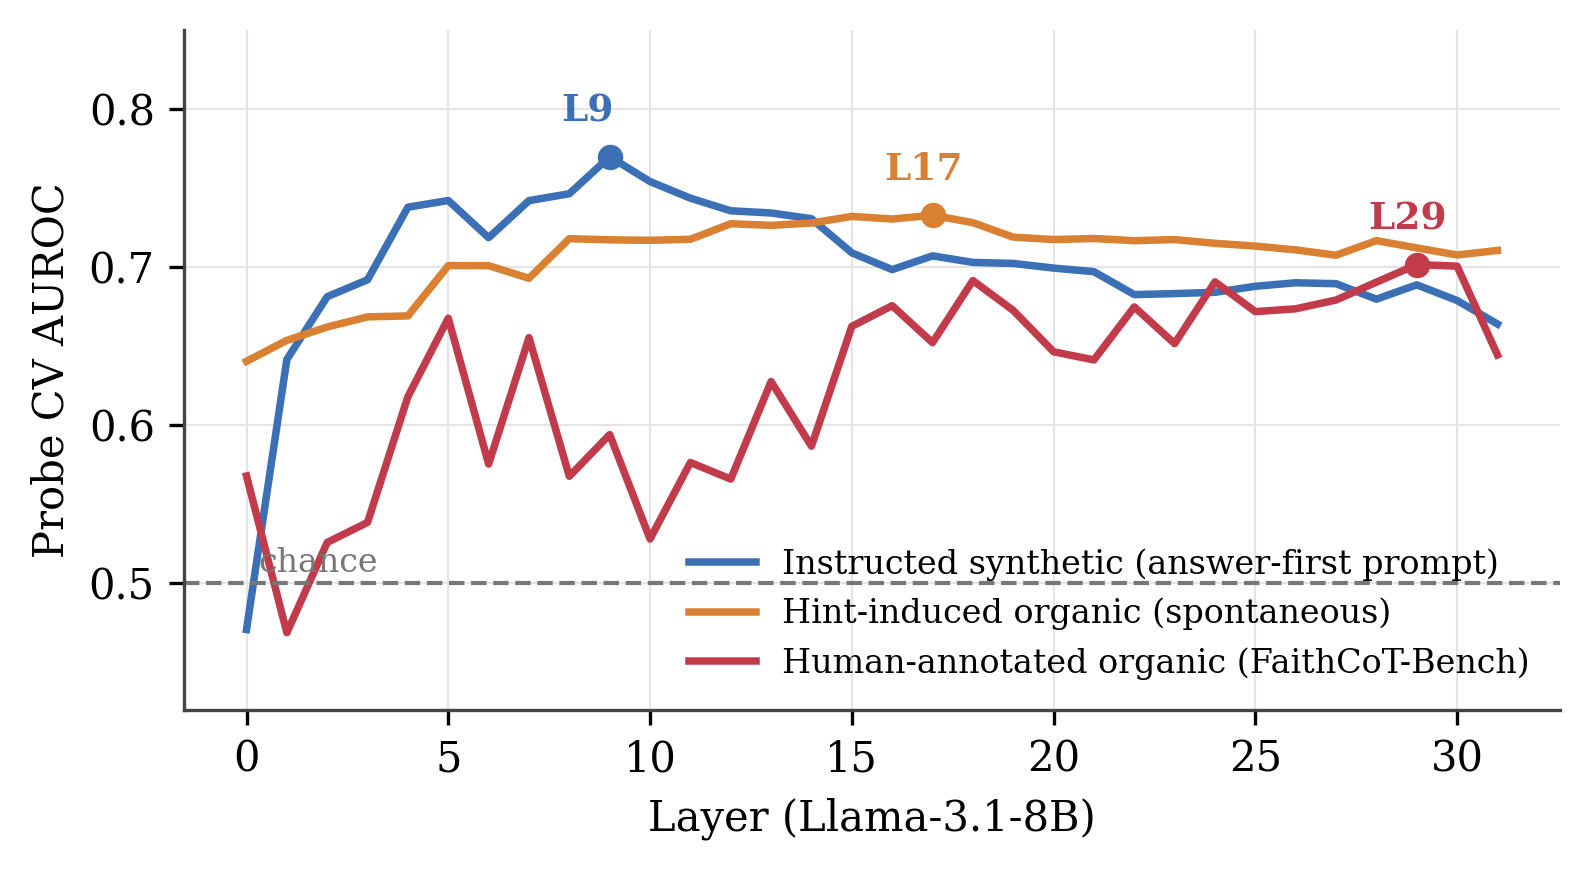
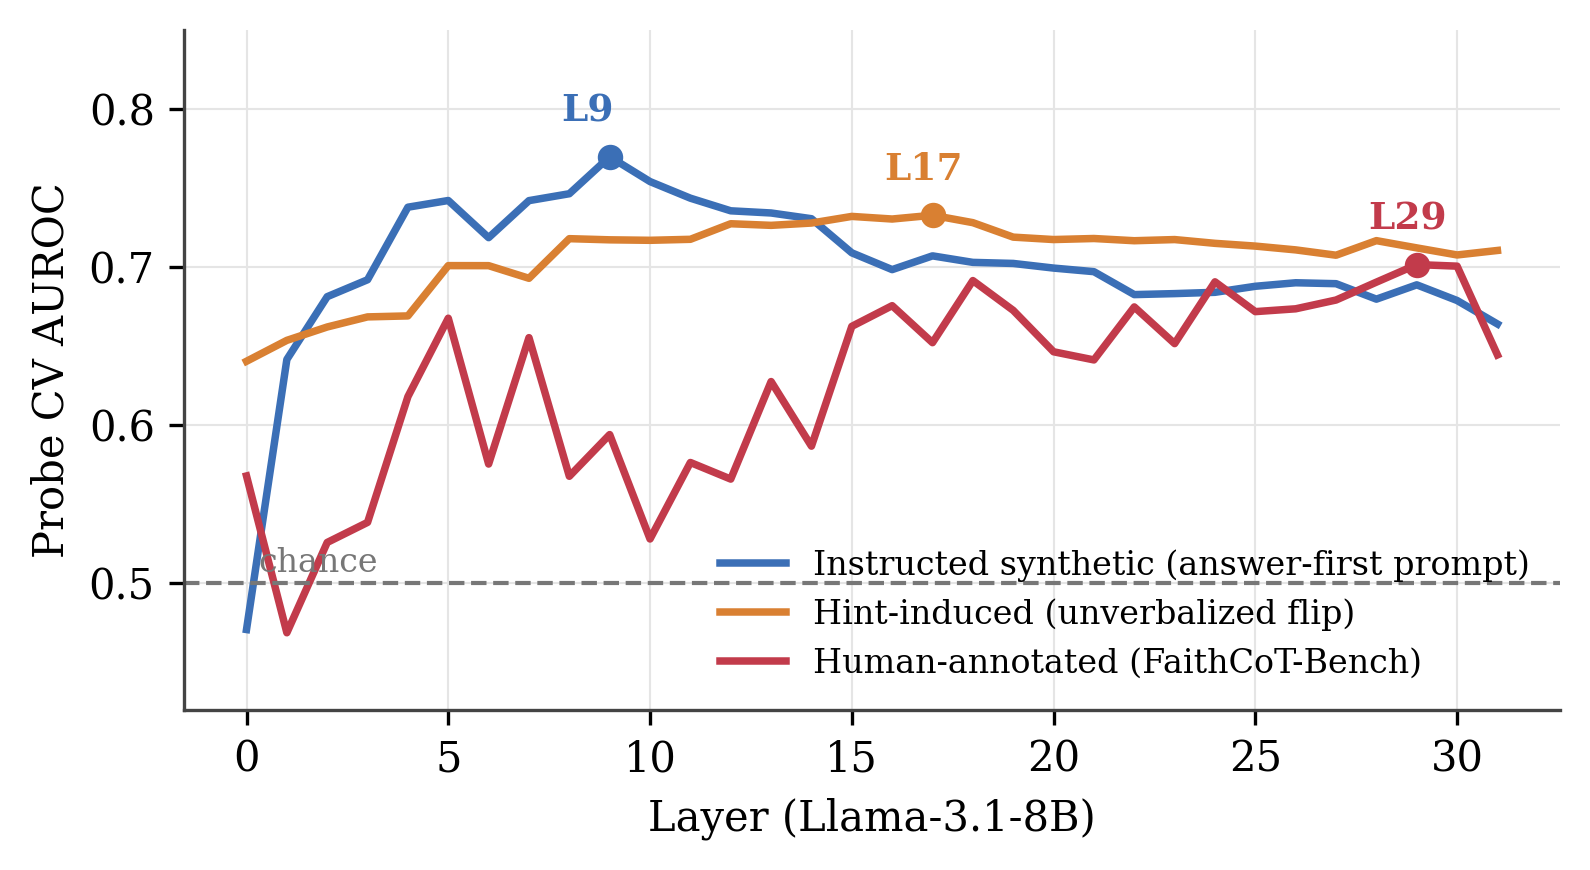
Second-review calibration pass: terminology, scoping, cluster bootstrap, descriptive depth claim
Per the updated external review (2.5 -> 3/5), applied all recommended wording edits:
- "silent rationalization" -> "unverbalized answer flips"; zero remaining "organic post-hoc"/
  "causal labels"; inversion header -> "intervention-defined, sample-level hint-dependence labels";
  released-set description -> "255 unverbalized hint-flip traces".
- Abstract/intro/discussion: "is at chance" -> "no reliable above-chance discrimination";
  proxy claim Llama-scoped ("instructed rationalizations do not transfer... whereas hint-induced
  traces do"); "information exists inside the model" -> "linearly decodable from Llama hidden
  states"; "may be necessary" -> "can provide complementary signal"; depth gradient Llama-scoped
  in abstract.
- Depth gradient marked DESCRIPTIVE in 7.3 + Fig 4 caption (Qwen peaks nearly coincide; stability
  caveat); Fig 4 legend regenerated ("Hint-induced (unverbalized flip)").
- Nested estimates now primary in 6 (0.67+/-0.08 leads; disclosed 0.70 parenthetical).
- NEW cluster bootstrap over 8 model-domain cells (results/cluster_bootstrap.json): correctness
  [0.616,0.753], inverted-soft [0.575,0.728] -- both exclude chance; HLE-Bio heterogeneity
  disclosed in Limitations. RoBERTa-baseline-strength caveat added.
Launched (Aquaman): question-only hint->annotated transfer control -- the reviewer's top-priority
experiment; if ~chance while CoT transfers at 0.616, the difficulty-carrier alternative dies.

Changed region(s): [[0.4314, 0.6207, 0.9553, 0.7759]]

diff --git a/paper/main.tex b/paper/main.tex
@@ -24,7 +24,7 @@
 \maketitle
 
 \begin{abstract}
-Chain-of-thought (CoT) explanations support oversight only if they are \emph{faithful}: the stated reasoning must actually produce the answer. We audit how far \emph{black-box} (behavioral) detection of unfaithful CoT can go, evaluating four families of behavioral signals on FaithCoT-Bench against its human annotations. Detection is dominated by an accuracy confound: answer correctness alone is the strongest ``unfaithfulness'' signal (AUROC 0.696), and the standard step-removal faithfulness metric \emph{anti-correlates} with human judgments. Controlling for correctness isolates a frontier where every black-box signal we test is at chance: \emph{post-hoc rationalization on correct answers}. Linear probes over hidden states detect this regime where behavior cannot, with model-dependent strength. To study the regime at scale, we compare instructed answer-first prompting (7 models, 3 families; grouped, nested held-out AUROC 0.63--0.79) with hint-induced silent rationalization, in which an unverbalized hint demonstrably changes the sampled answer. In Llama-3.1-8B, probes trained on the hint-induced variant transfer to human-annotated rationalization (layer-mean AUROC 0.616, permutation $p{=}0.017$; instructed: 0.431; no such transfer detected in Qwen-2.5-7B), and the three variants peak at increasing network depths. Instructed rationalization is not a proxy for the organic phenomenon, and faithfulness evaluation should not rely on it.
+Chain-of-thought (CoT) explanations support oversight only if they are \emph{faithful}: the stated reasoning must actually produce the answer. We audit how far \emph{black-box} (behavioral) detection of unfaithful CoT can go, evaluating four families of behavioral signals on FaithCoT-Bench against its human annotations. Detection is dominated by an accuracy confound: answer correctness alone is the strongest ``unfaithfulness'' signal (AUROC 0.696), and the standard step-removal faithfulness metric \emph{anti-correlates} with human judgments. Controlling for correctness isolates a frontier where none of the black-box signals we test shows reliable above-chance discrimination: \emph{post-hoc rationalization on correct answers}. Linear probes over hidden states detect this regime where behavior cannot, with model-dependent strength. To study the regime at scale, we compare instructed answer-first prompting (7 models, 3 families; grouped, nested held-out AUROC 0.63--0.79) with hint-induced, unverbalized answer flips, in which a hint the model never mentions demonstrably changes the sampled answer. In Llama-3.1-8B, probes trained on the hint-induced variant transfer to human-annotated rationalization (layer-mean AUROC 0.616, permutation $p{=}0.017$; instructed: 0.431; no such transfer detected in Qwen-2.5-7B), and in Llama the three variants peak at increasing network depths. In Llama, instructed rationalizations do not transfer to the annotated regime under linear probing, whereas hint-induced traces do---cautioning against treating instructed constructions as interchangeable with naturally occurring unfaithfulness.
 \end{abstract}
 
 \section{Introduction}
@@ -63,7 +63,7 @@ If the population of a city increases by 5\% annually, what will be the populati
 
 \paragraph{A localized frontier (\S\ref{sec:frontier}).} Controlling for the confound (restricting to correct-answer traces and separating faithful reasoning from post-hoc rationalization) collapses every black-box signal to chance. We argue this regime is the hard core of the problem.
 
-\paragraph{The internals contrast (\S\ref{sec:internals}).} On the same regime, simple linear probes over hidden states succeed where behavior fails, in some models: Llama-3.1-8B reaches held-out AUROC 0.70 with cross-domain generalization and weak causal support from activation steering; Qwen-2.5-7B is not significant. The distinction is behaviorally inaccessible yet (unevenly) linearly decodable.
+\paragraph{The internals contrast (\S\ref{sec:internals}).} On the same regime, simple linear probes over hidden states succeed where behavior fails, in some models: Llama-3.1-8B reaches held-out AUROC 0.70 with cross-domain generalization and weak causal support from activation steering; Qwen-2.5-7B is not significant. The distinction is not detected by our behavioral baselines but is linearly decodable in Llama hidden states.
 
 \paragraph{Constructed vs.\ organic unfaithfulness (\S\ref{sec:construction}).} Annotated post-hoc traces are scarce, so the field constructs them, typically by instructing a model to justify a given answer. We compare two constructions at scale: \emph{instructed} answer-first prompting across 7 open models (2024--2026), and \emph{hint-induced} rationalization \citep{turpin2023language}, where a model that failed a problem flips to the hinted gold answer without ever mentioning the hint, yielding organic traces whose sampled answers are demonstrably hint-dependent. Both are strongly detectable internally; but a three-way transfer analysis against the human-annotated regime shows that, in Llama, only the hint-induced variant shares its representation. Instructed rationalization is an artifact, and that is a caution for common evaluation practice.
 
@@ -148,7 +148,7 @@ Premise-DAG structure & 0.490 & $\ni$ 0.5 \\
 \bottomrule
 \end{tabular}%
 }
-\caption{The frontier: the human unfaithfulness label restricted to \emph{correct-answer} traces (the ft1/ft2 regime; $n{=}270$). Every black-box signal is at chance; the conclusion is unchanged if the four-way \texttt{faithful\_type} annotation (ft1 vs.\ ft2) is used as the target instead (0.48--0.54, all CIs $\ni$ 0.5).}
+\caption{The frontier: the human unfaithfulness label restricted to \emph{correct-answer} traces (the ft1/ft2 regime; $n{=}270$). No tested black-box signal shows statistically reliable above-chance performance (intervals do not exclude modest effects); the conclusion is unchanged if the four-way \texttt{faithful\_type} annotation (ft1 vs.\ ft2) is used as the target instead (0.48--0.54, all CIs $\ni$ 0.5).}
 \label{tab:frontier}
 \end{table}
 
@@ -178,7 +178,7 @@ MLP vs.\ linear & no gain & --- \\
 \label{tab:whitebox}
 \end{table}
 
-\paragraph{Results.} Table~\ref{tab:whitebox} (probe target: the four-way annotation, ft1 vs.\ ft2; 91\% aligned with the binary label used in Table~\ref{tab:frontier}). In Llama-3.1-8B the probe separates ft1 from ft2 at held-out AUROC 0.70 (0.67 $\pm$ 0.08 when the layer is selected by nested inner CV on training folds only), generalizes across domains, and is approximately linear (an MLP adds nothing). In Qwen-2.5-7B it is weak and not significant---``not detected,'' not ``absent.'' An exploratory steering check points the right way: steering activations along the probe's post-hoc direction flips answers 2--3$\times$ more than a norm-matched random control direction (0.22 vs.\ 0.08 at $+6\sigma$; a single control direction; Appendix~\ref{app:steering}). We present this strictly as an exploratory sanity check, not as a contribution---concurrent work steers answer directions with far larger effects \citep{cox2026decoding}---and note that steering-vector effects are known to be high-variance and that random-direction controls rule out generic perturbation, not any-structured-direction, effects \citep{tan2024analysing}.
+\paragraph{Results.} Table~\ref{tab:whitebox} (probe target: the four-way annotation, ft1 vs.\ ft2; 91\% aligned with the binary label used in Table~\ref{tab:frontier}). In Llama-3.1-8B the probe separates ft1 from ft2 at held-out AUROC 0.67 $\pm$ 0.08 under nested layer selection (0.70 at the disclosed full-data layer), generalizes across domains, and is approximately linear (an MLP adds nothing). In Qwen-2.5-7B it is weak and not significant---``not detected,'' not ``absent.'' An exploratory steering check points the right way: steering activations along the probe's post-hoc direction flips answers 2--3$\times$ more than a norm-matched random control direction (0.22 vs.\ 0.08 at $+6\sigma$; a single control direction; Appendix~\ref{app:steering}). We present this strictly as an exploratory sanity check, not as a contribution---concurrent work steers answer directions with far larger effects \citep{cox2026decoding}---and note that steering-vector effects are known to be high-variance and that random-direction controls rule out generic perturbation, not any-structured-direction, effects \citep{tan2024analysing}.
 
 \section{Part IV: Constructed vs.\ Organic Unfaithfulness}
 \label{sec:construction}
@@ -225,7 +225,7 @@ DeepSeek-R1-0528-8B & 81 & 0.558$^{\ddagger}$ & 0.627 & .025 & 0.473 \\
 
 Following the biased-context paradigm \citep{turpin2023language,chen2025reasoning}, we first ask each problem clean (correct $\Rightarrow$ \emph{genuine}, capped). For problems the model got \emph{wrong}, we re-ask with a sycophancy hint toward the gold answer (``I think the answer is $a^*$\ldots''). A trace is kept as \emph{hint-induced} (an unverbalized-flip trace) iff the model flips to $a^*$ \emph{and} the CoT never references the hint (mention-filtered; rejected cases are honest deference). The label is \textbf{counterfactual at the sample level}: the sampled baseline answer was incorrect and the hinted answer matches the hint, satisfying the unfaithfulness criterion of \citet{chen2025reasoning}. It is not a problem-level inability claim: a single independent baseline resample solves 59\% of these problems, and only 25\% (Llama) / 29\% (Qwen) fail two consecutive resamples, so hint-dependence is a property of the sampled trace; Appendix~\ref{app:strict} repeats the key analyses on the strict subset of problems that fail repeated baseline resamples. We likewise distinguish the established claim (``the hint changed the answer, unverbalized'') from the stronger interpretation (``the CoT was generated answer-first''), which remains an inference; we use \emph{rationalization} as shorthand for the former. Probed contexts exclude the hint text, keeping conditions symmetric. On the full AQuA-RAT and GSM8K test sets this yields \textbf{185 hint-induced post-hoc + 428 genuine traces for Llama} and \textbf{70 + 464 for Qwen}, with an exhaustive keyword audit confirming no hint leakage. The construction costs no human annotation. A further caveat: unlike the instructed construction, whose pairs share problems, genuine and hint-induced traces here come from \emph{disjoint problem pools} (solved vs.\ failed at baseline), so within-testbed decodability may partly reflect problem difficulty or model confidence. The transfer analysis below is the difficulty-robust claim: in the annotated target regime both classes are correct-answer traces, so a difficulty probe should not transfer---yet transfer is what we observe.
 
-Both models are strongly decodable on this organic set (held-out 0.752 / 0.835, permutation $p{\leq}0.001$, 1{,}000 permutations). Input and text baselines are substantial here and we report them prominently: surface features reach 0.626/0.703, a learned text baseline 0.611/0.751, and question-only probes 0.646/0.664---so within-testbed decodability, especially for Qwen, is partly difficulty- and text-explainable; the CoT probes exceed the strongest such baseline by roughly $+0.08$--$0.11$. Most strikingly, \textbf{the metric inversion replicates with causal labels}: \texttt{soft\_faithfulness} in its intended direction scores \textbf{0.389 [0.301, 0.481] (Llama) and 0.251 [0.166, 0.350] (Qwen)}---on traces whose sampled answers were demonstrably hint-dependent, the standard metric confidently points the wrong way.
+Both models are strongly decodable on this organic set (held-out 0.752 / 0.835, permutation $p{\leq}0.001$, 1{,}000 permutations). Input and text baselines are substantial here and we report them prominently: surface features reach 0.626/0.703, a learned text baseline 0.611/0.751, and question-only probes 0.646/0.664---so within-testbed decodability, especially for Qwen, is partly difficulty- and text-explainable; the CoT probes exceed the strongest such baseline by roughly $+0.08$--$0.11$. Most strikingly, \textbf{the metric inversion replicates with intervention-defined, sample-level hint-dependence labels}: \texttt{soft\_faithfulness} in its intended direction scores \textbf{0.389 [0.301, 0.481] (Llama) and 0.251 [0.166, 0.350] (Qwen)}---on traces whose sampled answers were demonstrably hint-dependent, the standard metric confidently points the wrong way.
 
 \subsection{The three-way bridge}
 \label{sec:bridge}
@@ -233,7 +233,7 @@ Both models are strongly decodable on this organic set (held-out 0.752 / 0.835, 
 \begin{figure}[t]
 \centering
 \includegraphics[width=\columnwidth]{figs/depth_gradient.pdf}
-\caption{Per-layer probe AUROC for the three post-hoc variants (Llama-3.1-8B). Instructed synthetic peaks early (L9), hint-induced organic mid (L17), human-annotated organic late (L29).}
+\caption{Per-layer probe AUROC for the three constructions (Llama-3.1-8B; descriptive). Instructed synthetic peaks early (L9), hint-induced mid (L17), human-annotated late (L29); in Qwen the latter two nearly coincide.}
 \label{fig:depth}
 \end{figure}
 
@@ -256,7 +256,7 @@ Hint $\to$ annotated (Qwen) & 0.583 & 0.484 & .741 \\
 \bottomrule
 \end{tabular}%
 }
-\caption{Cross-construction transfer, swept over all layers (best and selection-free layer-mean; permutation $p$ on the mean, permutations coupled across layers). Hint-induced organic rationalization bridges to the human-annotated regime; instructed synthetic does not.}
+\caption{Cross-construction transfer, swept over all layers (best and selection-free layer-mean; permutation $p$ on the mean, permutations coupled across layers). Hint-induced traces bridge to the human-annotated regime; instructed synthetic does not.}
 \label{tab:bridge}
 \end{table}
 
@@ -267,21 +267,21 @@ Hint $\to$ annotated (Qwen) & 0.583 & 0.484 & .741 \\
 \label{fig:heatmap}
 \end{figure}
 
-Do the constructions share the annotated regime's representation? We train probes on each distribution and test on the others, sweeping all layers (Table~\ref{tab:bridge}; Figures~\ref{fig:depth} and~\ref{fig:heatmap}). Three observations. \textbf{(1) Depth gradient:} the three variants peak at increasing depths---instructed L9, hint-organic L17, annotated L29 (Qwen: L10/L21/L22). \textbf{(2) Instructed rationalization does not transfer} to the annotated regime in either direction ($\leq$0.554 best-of-layers; layer-means at or below chance)---despite being the \emph{easiest} variant to detect within-distribution. \textbf{(3) Hint-induced organic rationalization transfers} (Llama: layer-mean 0.616, permutation $p{=}0.017$; best 0.694, selection-corrected $p{=}0.049$; 1{,}000 permutations). On the strict subset of Appendix~\ref{app:strict} the transfer magnitude is preserved (mean 0.596, best 0.699) though underpowered at $n{=}47$ ($p{=}0.078$). In Qwen the transfer is null ($p{=}0.741$), which we report as inconclusive: the annotated-regime anchor is itself not significant in Qwen and the organic set is small ($n{=}70$)---one cannot measure transfer onto a signal that barely exists in the target. Contributors we cannot separate include source-set size (185 vs.\ 70 traces), the weak annotated anchor, and label noise; the positive transfer claim is therefore Llama-specific and directional (hint$\to$annotated).
+Do the constructions share the annotated regime's representation? We train probes on each distribution and test on the others, sweeping all layers (Table~\ref{tab:bridge}; Figures~\ref{fig:depth} and~\ref{fig:heatmap}). Three observations. \textbf{(1) Depth gradient (descriptive):} in Llama the three variants peak at increasing depths---instructed L9, hint-induced L17, annotated L29; in Qwen the hint-induced and annotated peaks nearly coincide (L21/L22). We treat this as an observed pattern, not evidence of distinct processing stages; peak locations may be unstable under resampling. \textbf{(2) Instructed rationalization does not transfer} to the annotated regime in either direction ($\leq$0.554 best-of-layers; layer-means at or below chance)---despite being the \emph{easiest} variant to detect within-distribution. \textbf{(3) Hint-induced traces transfer} (Llama: layer-mean 0.616, permutation $p{=}0.017$; best 0.694, selection-corrected $p{=}0.049$; 1{,}000 permutations). On the strict subset of Appendix~\ref{app:strict} the transfer magnitude is preserved (mean 0.596, best 0.699) though underpowered at $n{=}47$ ($p{=}0.078$). In Qwen the transfer is null ($p{=}0.741$), which we report as inconclusive: the annotated-regime anchor is itself not significant in Qwen and the organic set is small ($n{=}70$)---one cannot measure transfer onto a signal that barely exists in the target. Contributors we cannot separate include source-set size (185 vs.\ 70 traces), the weak annotated anchor, and label noise; the positive transfer claim is therefore Llama-specific and directional (hint$\to$annotated).
 
 Stated precisely, the transfer result concerns \emph{linearly decodable structure}: probes find \textbf{no positively aligned, linearly decodable shared direction between instructed rationalization and the annotated regime at any layer} (transfer at or below chance throughout; we do not test for inverted alignment), while hint-induced rationalization does share one---and the depth signatures (Figure~\ref{fig:depth}) tell the same story constructively. Transfer failure alone cannot rule out a shared representation encoded along non-aligned directions, and input-distribution differences contribute; but the three-way contrast controls for the boring versions of this (the two constructions share format and domain, yet only one transfers), and the result is robust to preprocessing choices: without PCA, and with the scaler refit on the target distribution, hint$\to$annotated layer-means remain 0.56--0.57 while instructed$\to$annotated stays at 0.45. The practical caution stands: \textbf{evaluating or training faithfulness detectors on instructed rationalizations may measure the wrong thing} \citep[cf.\ off-policy probe failures in deception detection;][]{offpolicy2025probes}.
 
 \section{Discussion}
 
-\paragraph{For oversight.} Black-box CoT auditing largely re-detects answer correctness; where correctness is controlled, the behavioral signals we tested provide no detected information, and the most-used metric inverts. The information exists inside the model---unevenly across models---which argues that white-box access may be necessary for oversight in this regime: it provides signal where the tested behavioral methods do not.
+\paragraph{For oversight.} Black-box CoT auditing largely re-detects answer correctness; where correctness is controlled, the behavioral signals we tested provide no detected information, and the most-used metric inverts. Information correlated with the annotated distinction is linearly decodable from Llama hidden states---unevenly across models---suggesting white-box access can provide complementary signal where the tested black-box methods fail.
 
-\paragraph{For evaluation practice.} Two shortcuts fail in ways we can now quantify: evaluating detectors against answer-tracing metrics (circular, and inverted in this regime), and constructing unfaithfulness by instruction (representationally unlike the real thing). The hint-induced protocol offers a cheap alternative with sample-level counterfactual labels; our collected set (255 organic post-hoc + 892 matched genuine traces across two models) is released with the paper.
+\paragraph{For evaluation practice.} Two shortcuts fail in ways we can now quantify: evaluating detectors against answer-tracing metrics (circular, and inverted in this regime), and constructing unfaithfulness by instruction (which did not transfer to the annotated regime in our probes). The hint-induced protocol offers a cheap alternative with sample-level counterfactual labels; our collected set (255 unverbalized hint-flip traces + 892 matched genuine traces across two models) is released with the paper.
 
 \paragraph{Model-dependence.} Detection strength varies systematically---strongest in standard instruct models, weakest in reasoning-distilled ones, whose elaborate reasoning may blur the genuine/post-hoc boundary or encode it elsewhere. Within one family, Gemma-2 (0.60) $\to$ Gemma-4 (0.80) is a sharp jump. Why some models expose this regime linearly and others do not is an open mechanistic question.
 
 \section{Limitations}
 
-Our real-label results rest on one human-annotated benchmark (FaithCoT-Bench; in-regime $n{=}270$, per-model $n{=}144/126$)---to our knowledge the only instance-level faithfulness benchmark with expert annotations, which is itself part of the problem we highlight. The frontier claim (no detected above-chance performance) is specific to that benchmark; the constructed testbeds carry substantial input/text signals (up to 0.75 for a learned text baseline on Qwen's hint set) and serve the inversion, decodability, and transfer analyses instead. The Qwen contrast is ``not detected,'' not ``absent,'' and its bridge result is inconclusive rather than negative. Causal evidence from steering is weak ($n{=}51$, large perturbations, a single random control direction, indirect readout). The constructed testbeds are math-only; the hint construction uses a single sycophancy template (template robustness unchecked), inherits class imbalance (AUROC-tolerant; reported), draws genuine and post-hoc traces from disjoint problem pools (a difficulty confound for within-testbed decodability; the transfer analysis is the difficulty-robust claim), and under sampled decoding hint-dependence is sample-level: only 25--29\% of flip-labeled problems fail two consecutive baseline resamples (strict-subset analysis: Appendix~\ref{app:strict}). Bootstrap CIs treat traces as independent although they cluster by model and domain; macro-averaging over model$\times$domain cells preserves the direction of the headline effects (correctness 0.66, inverted answer-tracing 0.65) with heterogeneity across cells. Probes are linear/PCA-based (an MLP added nothing, but richer white-box methods may decode more). Closed models cannot be probed at all---which is itself part of the argument for open-weight oversight.
+Our real-label results rest on one human-annotated benchmark (FaithCoT-Bench; in-regime $n{=}270$, per-model $n{=}144/126$)---to our knowledge the only instance-level faithfulness benchmark with expert annotations, which is itself part of the problem we highlight. The frontier claim (no detected above-chance performance) is specific to that benchmark; the constructed testbeds carry substantial input/text signals (up to 0.75 for a learned text baseline on Qwen's hint set) and serve the inversion, decodability, and transfer analyses instead. The Qwen contrast is ``not detected,'' not ``absent,'' and its bridge result is inconclusive rather than negative. Causal evidence from steering is weak ($n{=}51$, large perturbations, a single random control direction, indirect readout). The constructed testbeds are math-only; the hint construction uses a single sycophancy template (template robustness unchecked), inherits class imbalance (AUROC-tolerant; reported), draws genuine and post-hoc traces from disjoint problem pools (a difficulty confound for within-testbed decodability; the transfer analysis is the difficulty-robust claim), and under sampled decoding hint-dependence is sample-level: only 25--29\% of flip-labeled problems fail two consecutive baseline resamples (strict-subset analysis: Appendix~\ref{app:strict}). Bootstrap CIs treat traces as independent although they cluster by model and domain; a cluster bootstrap over the 8 model$\times$domain cells of the complete-feature subset still excludes chance for the headline effects (correctness [0.616, 0.753]; inverted answer-tracing [0.575, 0.728]), with honest heterogeneity---both effects are near chance on HLE-Bio ($n{=}40$ per model). A stronger text encoder than RoBERTa could also narrow the probe--text gap; our internal-signal claims are relative to the tested baselines. Probes are linear/PCA-based (an MLP added nothing, but richer white-box methods may decode more). Closed models cannot be probed at all---which is itself part of the argument for open-weight oversight.
 
 \section*{Ethics Statement}
 This work analyzes model-generated reasoning on public benchmarks (FaithCoT-Bench, AQuA-RAT, GSM8K) and releases model-generated traces with construction labels; no human subjects or personal data are involved. Detection of unfaithful reasoning is oversight-enabling; we do not release methods that make models less faithful---the hint construction elicits an existing failure mode, documented by prior work, for measurement purposes. AI assistants (Claude, ChatGPT, Gemini) were used to improve the clarity of the manuscript text and to assist with implementation and analysis code; all research questions, experimental designs, results, and conclusions are the authors' own and were verified by the authors.
@@ -326,6 +326,6 @@ $+6$ & \textbf{0.22} & 0.08 & 0.748 & 0.815 \\
 Because decoding is sampled (T$=$0.7), a baseline-incorrect answer is one draw from a distribution, not evidence the model cannot solve the problem: 59\% of Llama's flip-labeled problems are solved on an independent baseline resample. We therefore define a \emph{strict} subset: hint-induced traces whose problems are answered incorrectly on repeated independent baseline resamples. The within-testbed probe and the hint$\to$annotated transfer are recomputed on this subset; the strict subset carries a cleaner problem-level counterfactual at the cost of sample size. \textbf{Results:} 47/185 (Llama) and 20/70 (Qwen) flip-labeled problems fail both resamples. Within-testbed decodability \emph{rises} on the strict subset (CV 0.818/0.837), consistent with cleaner labels. The Llama hint$\to$annotated transfer preserves its magnitude (layer-mean 0.596 vs.\ 0.616 on the full set; best 0.699 vs.\ 0.694) but is underpowered at this $n$ ($p{=}0.078$ mean, $p{=}0.066$ best; 500 permutations); Qwen remains null (0.494, $p{=}0.605$). Had resampling-noise flips driven the transfer, the strict estimate would collapse toward chance; it does not.
 
 \section{GRACE Preliminary Replication}
-On the 40-example public sample of GRACE \citep{pham2026grace} (8 unfaithful steps), NLI step-support is at chance (0.51--0.58), directionally consistent with our FaithCoT results but underpowered; the full evaluation set was not released in time for this submission.
+On the 40-example public sample of GRACE \citep{pham2026grace} (8 unfaithful steps), NLI step-support shows no above-chance discrimination (0.51--0.58), directionally consistent with our FaithCoT results but underpowered; the full evaluation set was not released in time for this submission.
 
 \end{document}

diff --git a/paper/make_paper_figs.py b/paper/make_paper_figs.py
@@ -22,8 +22,8 @@ fc    = json.load(open(os.path.join(RES, "faithcot_perlayer.json")))["llama"]
 
 fig, ax = plt.subplots(figsize=(5.4, 3.0), dpi=300)
 for vals, color, label in [(synth, BLUE, "Instructed synthetic (answer-first prompt)"),
-                           (hint, ORANGE, "Hint-induced organic (spontaneous)"),
-                           (fc, RED, "Human-annotated organic (FaithCoT-Bench)")]:
+                           (hint, ORANGE, "Hint-induced (unverbalized flip)"),
+                           (fc, RED, "Human-annotated (FaithCoT-Bench)")]:
     ax.plot(range(len(vals)), vals, color=color, lw=1.8, label=label)
     b = max(range(len(vals)), key=lambda i: vals[i])
     ax.scatter([b], [vals[b]], color=color, s=26, zorder=5)